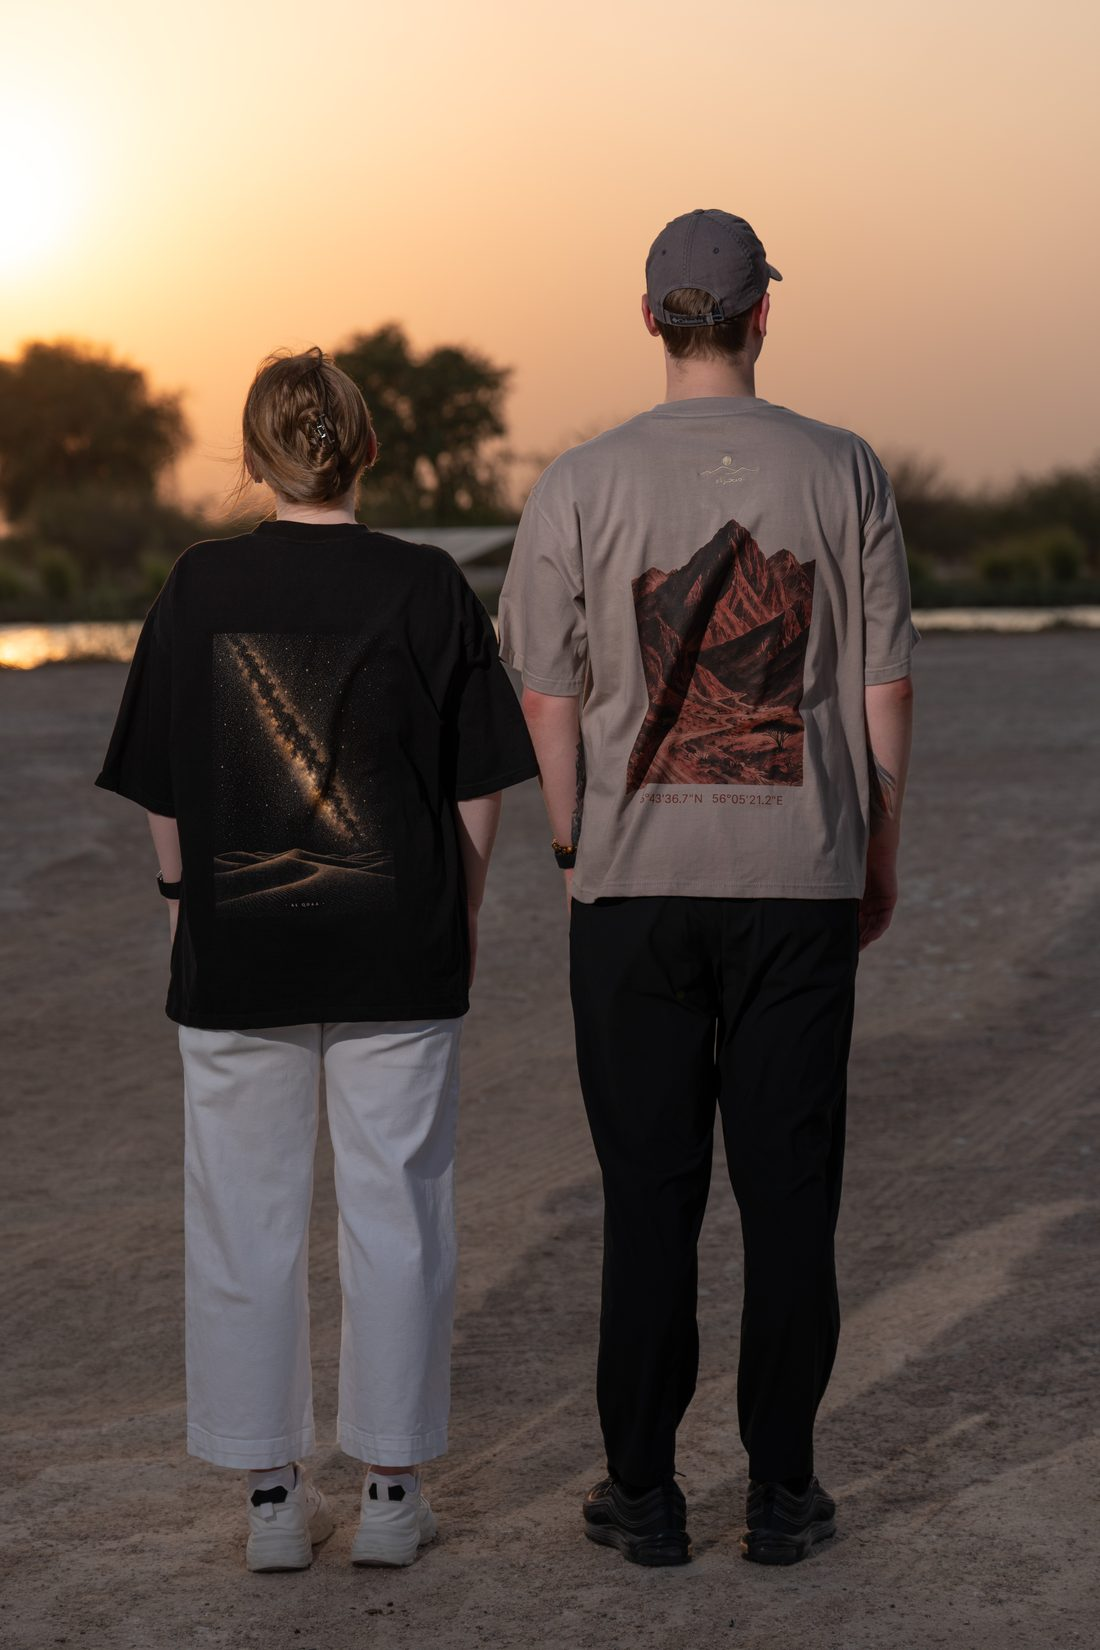
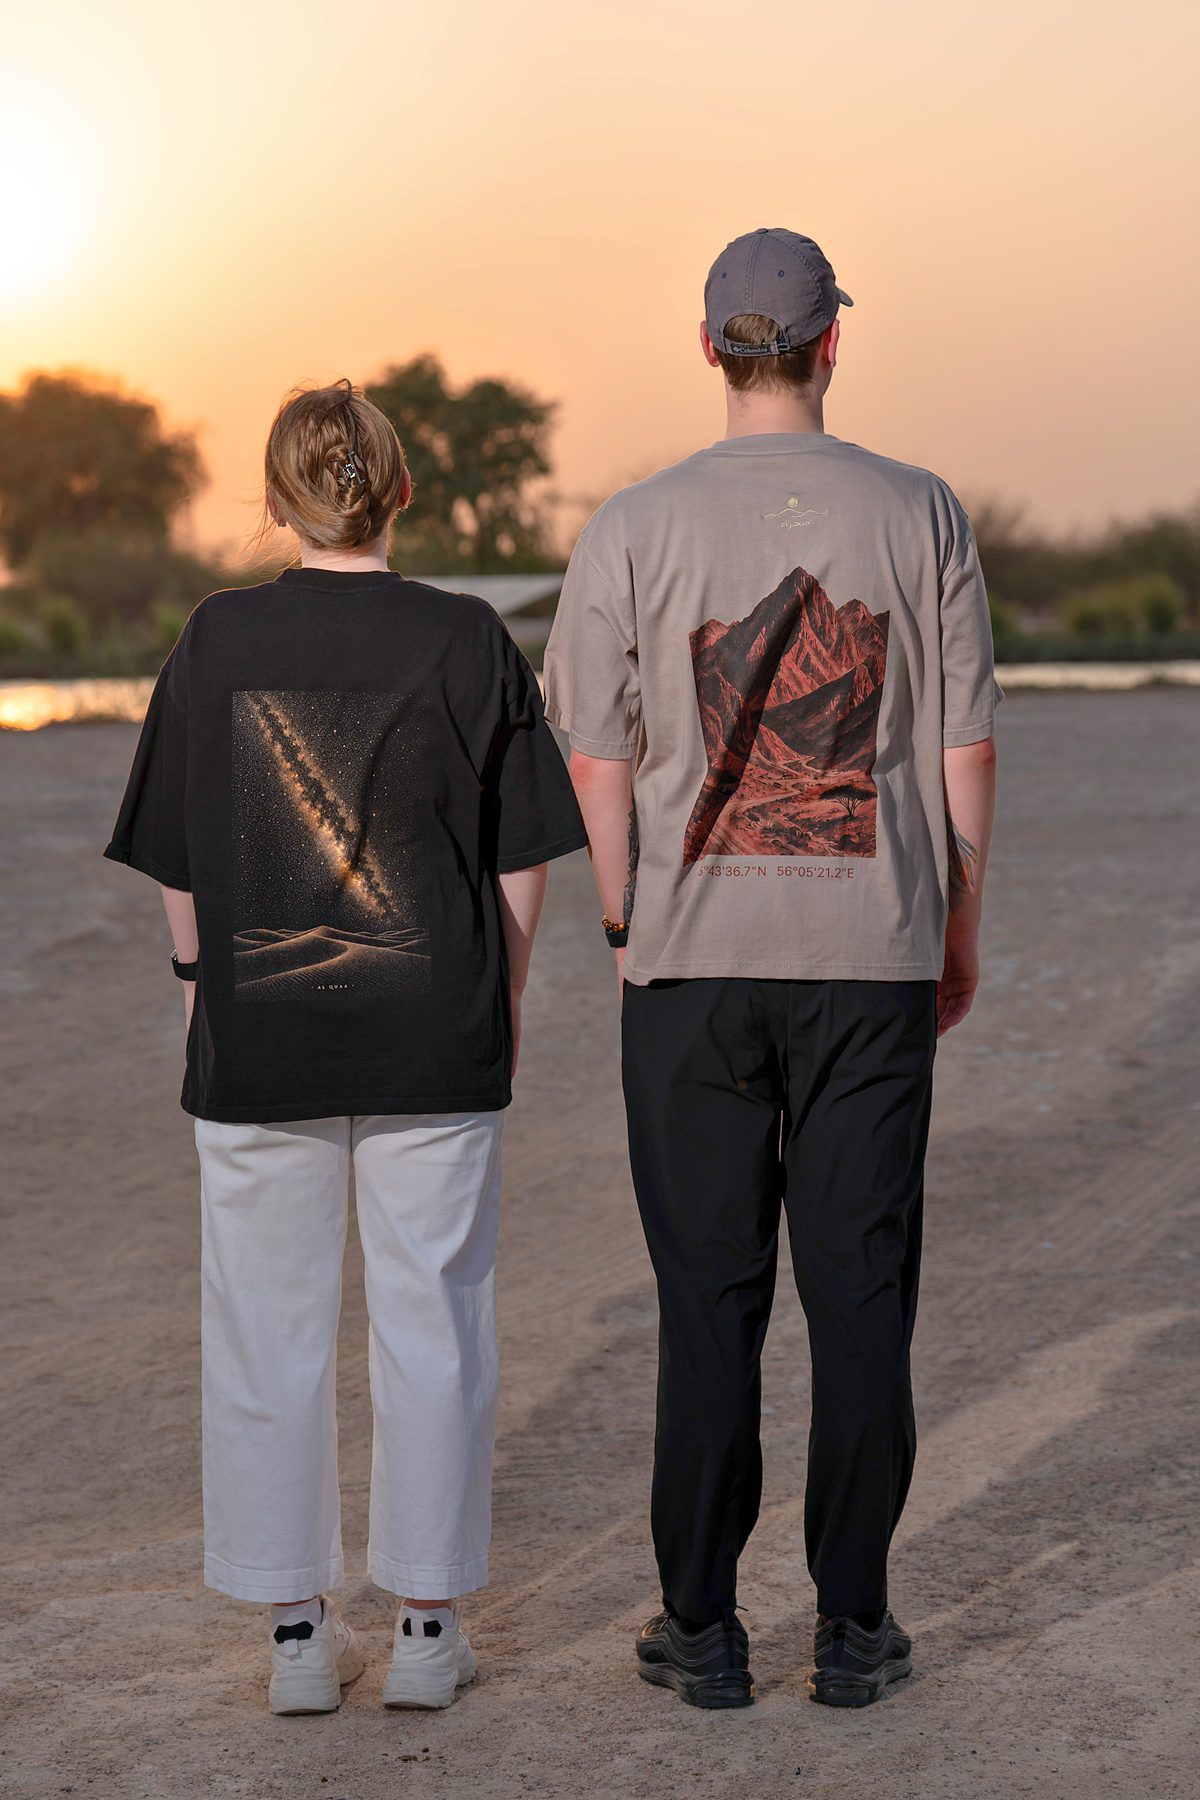
Brighten homepage hero: scrim only behind type, sharper photos

diff --git a/index.html b/index.html
@@ -743,8 +743,24 @@ footer{position:relative;z-index:2}
     margin:20px 0 0!important;text-align:left}
   #s-hero .hslide-cap-i{text-align:left}
 }
-#s-hero .hslide-scrim{background:linear-gradient(180deg,rgba(10,8,18,.66) 0%,rgba(10,8,18,.52) 34%,
-  rgba(10,8,18,.50) 60%,rgba(10,8,18,.84) 100%)}
+/* ---- brighter hero (Faheem, 23 Sep: 'too dark, photos need to be brighter
+   and clearer'). This rule used to lay a 50-84% dark wash over the WHOLE
+   frame, models included, on top of photos that are already dusk shots. The
+   scrim now darkens only where type sits: the type column on the left, a thin
+   band under the nav, and (on phones) the top and bottom thirds. The models
+   get no wash at all. The column edge follows the strip's own left edge. */
+#s-hero .hslide-scrim{background:
+  linear-gradient(180deg,rgba(10,8,18,.40) 0%,rgba(10,8,18,0) 17%,rgba(10,8,18,0) 86%,rgba(10,8,18,.28) 100%),
+  linear-gradient(90deg,rgba(10,8,18,.50) 0%,rgba(10,8,18,.42) calc(clamp(300px,42%,600px) - 90px),
+                  rgba(10,8,18,0) calc(clamp(300px,42%,600px) + 70px))}
+@media(max-width:860px){
+  /* the tagline sits at ~23-35% of the phone hero, right over the setting
+     sun, so the top band holds until ~34% and is clear before the heads (~45%) */
+  #s-hero .hslide-scrim{background:linear-gradient(180deg,rgba(10,8,18,.62) 0%,rgba(10,8,18,.54) 24%,
+    rgba(10,8,18,.44) 33%,rgba(10,8,18,0) 43%,rgba(10,8,18,0) 50%,rgba(10,8,18,.34) 62%,rgba(10,8,18,.80) 100%)}
+}
+/* with less scrim, the small type carries its own shadow */
+#s-hero .hslide-cap-i,#s-hero .lede,#s-hero .meta{text-shadow:0 1px 14px rgba(8,6,14,.72),0 1px 3px rgba(8,6,14,.62)}
 
 /* The ring used to be a flex child of #s-hero .j-wrap sized by
    #s-hero .hring{flex:0 0 clamp(340px,44vw,600px)}. Out here its container is a
@@ -790,7 +806,7 @@ footer{position:relative;z-index:2}
 @media(min-width:521px){
   .hslide-f::before{content:'';position:absolute;inset:-6%;background-image:var(--hsimg);
     background-size:cover;background-position:50% 45%;
-    filter:blur(34px) saturate(.9) brightness(.62);z-index:0}
+    filter:blur(34px) saturate(1) brightness(.8);z-index:0}
   .hs-strip .hs-t:nth-child(n+2){display:block}
 }
 /* a 320x568 screen leaves a 426px hero, wider than 2:3 once the bars are off -
@@ -1304,7 +1320,7 @@ if(document.readyState==='loading')document.addEventListener('DOMContentLoaded',
 
 <!-- 1 · HERO · Liwa at golden hour -->
 <section class="stop tall right" id="s-hero" data-tod="dawn" data-bg="liwa">
-  <div class="hslide" aria-hidden="true"><figure class="hslide-f is-on" data-hs="0" style="--hsimg:url('/shirts/hero-places-a.jpg')"><span class="hs-strip"><img class="hs-t" src="/shirts/hero-places-a.jpg" alt="" width="1100" height="1650" style="--x:45%" fetchpriority="high" decoding="async"><img class="hs-t" src="/shirts/hero-places-b.jpg" alt="" width="1100" height="1650" style="--x:55%" fetchpriority="high" decoding="async"><img class="hs-t hs-t3" src="/shirts/hero-dune-a.jpg" alt="" width="1100" height="1650" style="--x:30%" loading="lazy" decoding="async"></span></figure><figure class="hslide-f" data-hs="1" style="--hsimg:url('/shirts/hero-cloth-a.jpg')"><span class="hs-strip"><img class="hs-t" src="/shirts/hero-cloth-a.jpg" alt="" width="1100" height="1650" style="--x:84%" loading="lazy" decoding="async"><img class="hs-t" src="/shirts/hero-cloth-b.jpg" alt="" width="1100" height="1650" style="--x:63%" loading="lazy" decoding="async"><img class="hs-t hs-t3" src="/shirts/hero-dune-b.jpg" alt="" width="1100" height="1650" style="--x:42%" loading="lazy" decoding="async"></span></figure><figure class="hslide-f" data-hs="2" style="--hsimg:url('/shirts/hero-making-a.jpg')"><span class="hs-strip"><img class="hs-t" src="/shirts/hero-making-a.jpg" alt="" width="1100" height="1650" style="--x:48%" loading="lazy" decoding="async"><img class="hs-t" src="/shirts/hero-making-b.jpg" alt="" width="1100" height="1650" style="--x:55%" loading="lazy" decoding="async"><img class="hs-t hs-t3" src="/shirts/hero-dune-c.jpg" alt="" width="1100" height="1650" style="--x:47%" loading="lazy" decoding="async"></span></figure><figure class="hslide-f" data-hs="3" style="--hsimg:url('/shirts/hero-trust-a.jpg')"><span class="hs-strip"><img class="hs-t" src="/shirts/hero-trust-a.jpg" alt="" width="1100" height="1650" style="--x:64%" loading="lazy" decoding="async"><img class="hs-t" src="/shirts/hero-trust-b.jpg" alt="" width="1100" height="1650" style="--x:44%" loading="lazy" decoding="async"></span></figure><span class="hslide-scrim"></span></div>  <div class="j-wrap"><div class="col">
+  <div class="hslide" aria-hidden="true"><figure class="hslide-f is-on" data-hs="0" style="--hsimg:url('/shirts/hero-places-a.jpg')"><span class="hs-strip"><img class="hs-t" src="/shirts/hero-places-a.jpg" alt="" width="1200" height="1800" style="--x:45%" fetchpriority="high" decoding="async"><img class="hs-t" src="/shirts/hero-places-b.jpg" alt="" width="1200" height="1800" style="--x:55%" fetchpriority="high" decoding="async"><img class="hs-t hs-t3" src="/shirts/hero-dune-a.jpg" alt="" width="1200" height="1800" style="--x:30%" loading="lazy" decoding="async"></span></figure><figure class="hslide-f" data-hs="1" style="--hsimg:url('/shirts/hero-cloth-a.jpg')"><span class="hs-strip"><img class="hs-t" src="/shirts/hero-cloth-a.jpg" alt="" width="1200" height="1800" style="--x:84%" loading="lazy" decoding="async"><img class="hs-t" src="/shirts/hero-cloth-b.jpg" alt="" width="1200" height="1800" style="--x:63%" loading="lazy" decoding="async"><img class="hs-t hs-t3" src="/shirts/hero-dune-b.jpg" alt="" width="1200" height="1800" style="--x:42%" loading="lazy" decoding="async"></span></figure><figure class="hslide-f" data-hs="2" style="--hsimg:url('/shirts/hero-making-a.jpg')"><span class="hs-strip"><img class="hs-t" src="/shirts/hero-making-a.jpg" alt="" width="1200" height="1800" style="--x:48%" loading="lazy" decoding="async"><img class="hs-t" src="/shirts/hero-making-b.jpg" alt="" width="1200" height="1800" style="--x:55%" loading="lazy" decoding="async"><img class="hs-t hs-t3" src="/shirts/hero-dune-c.jpg" alt="" width="1200" height="1800" style="--x:47%" loading="lazy" decoding="async"></span></figure><figure class="hslide-f" data-hs="3" style="--hsimg:url('/shirts/hero-trust-a.jpg')"><span class="hs-strip"><img class="hs-t" src="/shirts/hero-trust-a.jpg" alt="" width="1200" height="1800" style="--x:64%" loading="lazy" decoding="async"><img class="hs-t" src="/shirts/hero-trust-b.jpg" alt="" width="1200" height="1800" style="--x:44%" loading="lazy" decoding="async"></span></figure><span class="hslide-scrim"></span></div>  <div class="j-wrap"><div class="col">
     <h1><span class="rv">Wear the</span> <em class="rv">wild side</em> <span class="rv">of the UAE.</span></h1>
     <div class="hslide-cap" aria-hidden="true"><span class="hslide-cap-i is-on" data-hc="0"><b>Limited first run</b>Three places you can drive to &mdash; Al Quaa, Liwa and Wadi Naqab.</span><span class="hslide-cap-i" data-hc="1"><b>The cloth</b>230 gsm combed ring-spun cotton, regular and oversized. <b>AED&nbsp;199</b>.</span><span class="hslide-cap-i" data-hc="2"><b>The making</b>Printed on two designs, embroidered on two.</span><span class="hslide-cap-i" data-hc="3"><span class="hero-rv" data-hero-rv hidden><b class="hero-stars">&#9733;&#9733;&#9733;&#9733;&#9733;</b> <span class="hero-rv-n"></span></span><span class="sb-ship-uae"><b>Free</b> next-day UAE delivery &middot; order by 2 pm</span><span class="sb-ship-gcc">GCC 3&ndash;5 days &middot; free over AED 390</span><span class="sb-ship-intl">Worldwide 7&ndash;14 days</span><span>Free returns</span></span></div>
 
